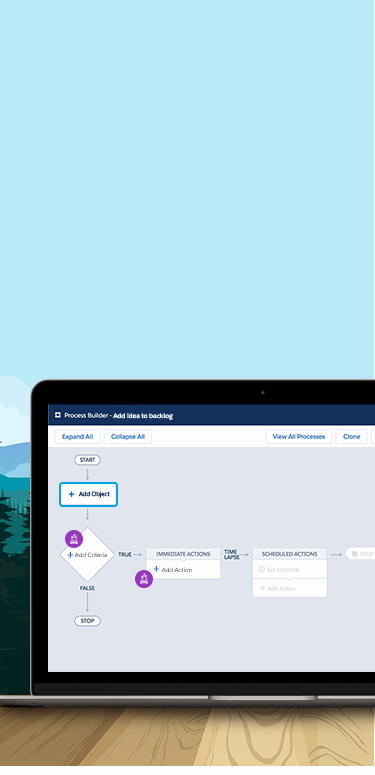
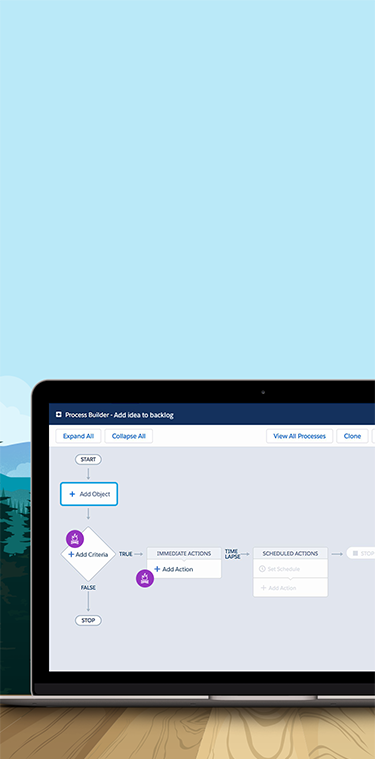
sgt-18 changed out bg image added bottom position and changed height

Changed region(s): [[0.0, 0.0, 1.0, 1.0], [0.6747, 0.697, 0.88, 0.7879], [0.9093, 0.697, 1.0, 0.7576]]

diff --git a/src/styles/__mobile.scss b/src/styles/__mobile.scss
@@ -718,10 +718,14 @@
 ************************/
 .build-a-process {
   .campaign-container {
+    background-position: bottom;
     @media(max-width: $screen-xs-max) {
       padding: 0 10px;
-      height: 716px;
+      height: 700px;
       @include retina-image("../assets/images/mobile/build-a-process/build-process-bg-1", 375px 726px, "png");
+    }
+    @media(max-width: 352px) {
+      height: 720px;
     }
     @media(min-width: $screen-sm-min) {
       padding:  20px;
